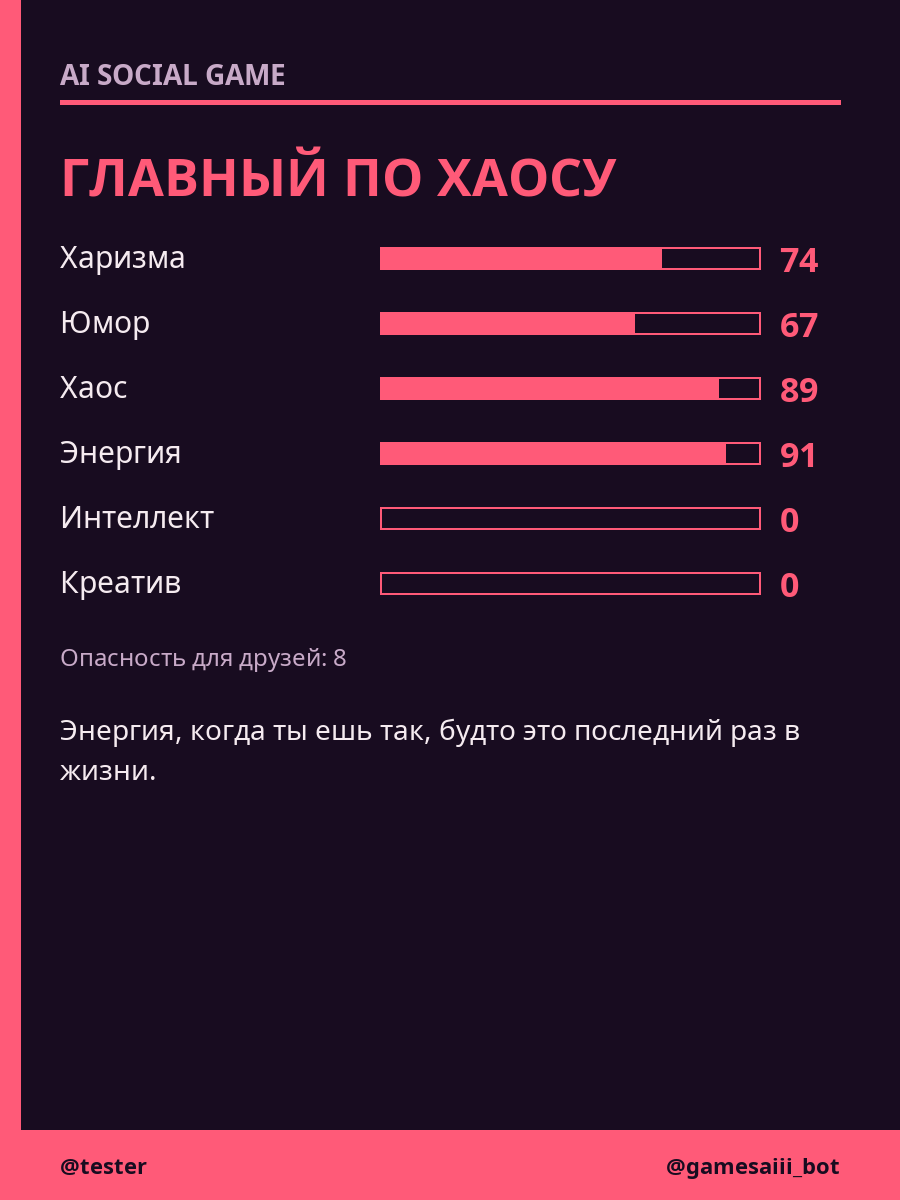
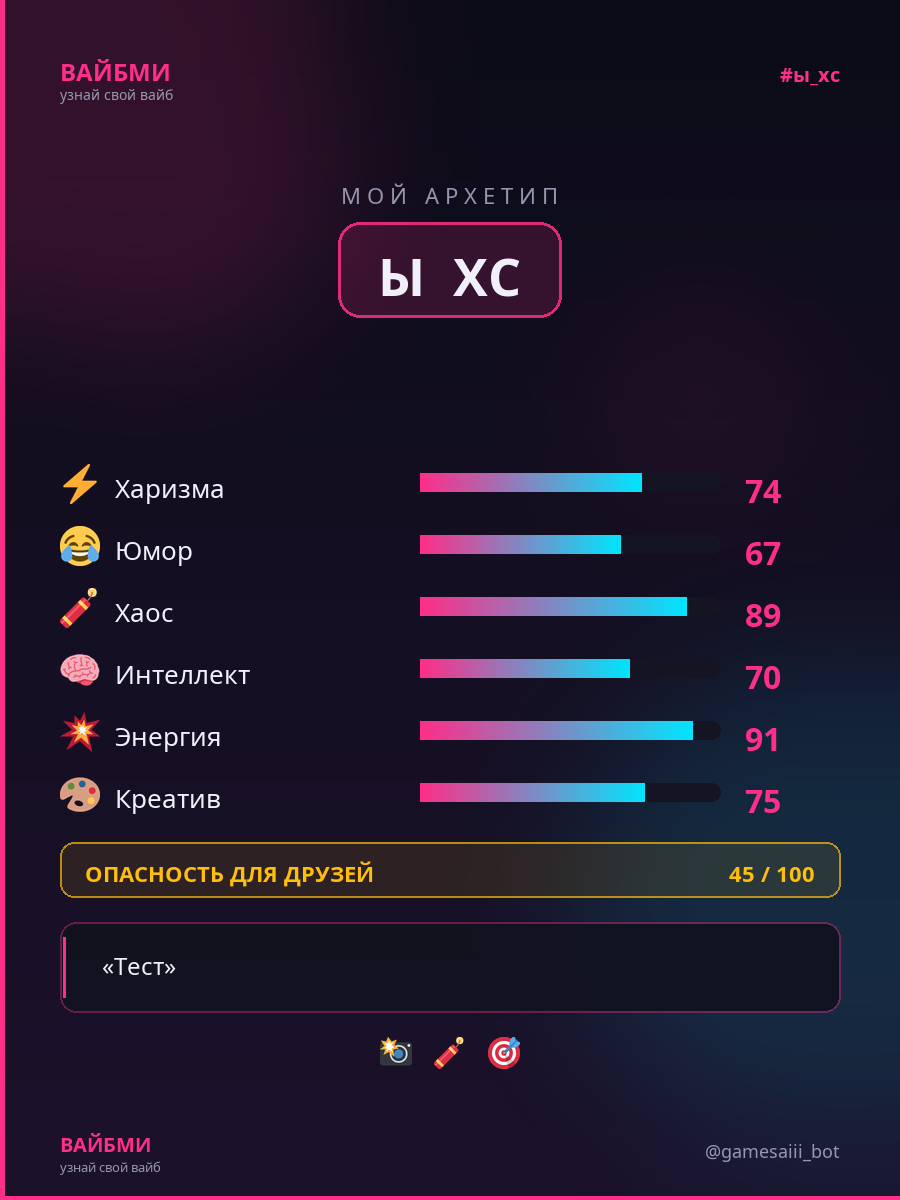
cards

diff --git a/services/cards/icons_data.py b/services/cards/icons_data.py
@@ -6,81 +6,343 @@ PNG-иконки для карточек, вшитые в base64.
 """
 
 import base64
+from typing import Optional
 
 STAT_CHARISMA_PNG = (
-    "NDA0OiBOb3QgRm91bmQ="
[8 lines of base64/hex data omitted]
 )
 
 STAT_HUMOR_PNG = (
-    "NDA0OiBOb3QgRm91bmQ="
[19 lines of base64/hex data omitted]
+    "AAAAAElFTkSuQmCC"
 )
 
 STAT_CHAOS_PNG = (
-    "NDA0OiBOb3QgRm91bmQ="
[14 lines of base64/hex data omitted]
+    "RK5CYII="
 )
 
 STAT_INTELLECT_PNG = (
-    "NDA0OiBOb3QgRm91bmQ="
[22 lines of base64/hex data omitted]
+    "DAAAAABJRU5ErkJggg=="
 )
 
 STAT_ENERGY_PNG = (
-    "NDA0OiBOb3QgRm91bmQ="
[18 lines of base64/hex data omitted]
+    "rkJggg=="
 )
 
 STAT_CREATIVITY_PNG = (
-    "NDA0OiBOb3QgRm91bmQ="
[14 lines of base64/hex data omitted]
+    "AAAASUVORK5CYII="
 )
 
 ACH_FIRST_PHOTO_PNG = (
-    "NDA0OiBOb3QgRm91bmQ="
[18 lines of base64/hex data omitted]
+    "4Ycf/gJMNUwl8U7IIwAAAABJRU5ErkJggg=="
 )
 
 ACH_FIRST_SHARE_PNG = (
-    "NDA0OiBOb3QgRm91bmQ="
[8 lines of base64/hex data omitted]
 )
 
 ACH_FRIEND_JOINED_PNG = (
-    "NDA0OiBOb3QgRm91bmQ="
[12 lines of base64/hex data omitted]
+    "AAAAAElFTkSuQmCC"
 )
 
 ACH_FIRST_TEST_PNG = (
-    "NDA0OiBOb3QgRm91bmQ="
[15 lines of base64/hex data omitted]
 )
 
 ACH_FIVE_TESTS_PNG = (
-    "NDA0OiBOb3QgRm91bmQ="
[16 lines of base64/hex data omitted]
+    "VoK/s2Z8jJHoK4UAAAAASUVORK5CYII="
 )
 
 ACH_CHAOS_90_PNG = (
-    "NDA0OiBOb3QgRm91bmQ="
[14 lines of base64/hex data omitted]
+    "RK5CYII="
 )
 
 ACH_CHARISMA_90_PNG = (
-    "NDA0OiBOb3QgRm91bmQ="
[13 lines of base64/hex data omitted]
+    "AAAASUVORK5CYII="
 )
 
 ACH_FIVE_ANALYSES_PNG = (
-    "NDA0OiBOb3QgRm91bmQ="
[16 lines of base64/hex data omitted]
+    "shNBaAAAAABJRU5ErkJggg=="
 )
 
 ACH_FIRST_MATCH_PNG = (
-    "NDA0OiBOb3QgRm91bmQ="
[21 lines of base64/hex data omitted]
 )
 
 ACH_TEN_MESSAGES_PNG = (
-    "NDA0OiBOb3QgRm91bmQ="
[8 lines of base64/hex data omitted]
+    "6a6NhWYYYpVkWAsG2T2kVvDffAJWZdMVFDffNgAAAABJRU5ErkJggg=="
 )
 
 ACH_PRO_FIRST_PNG = (
-    "NDA0OiBOb3QgRm91bmQ="
[14 lines of base64/hex data omitted]
+    "0DRztkL6AAAAAElFTkSuQmCC"
 )
 
 ACH_DEFAULT_PNG = (
-    "NDA0OiBOb3QgRm91bmQ="
[15 lines of base64/hex data omitted]
+    "FGXp/G1B99ji6VHvE1s865NeIXwDBvTA37rZqRcAAAAASUVORK5CYII="
 )
 
 
-def get_icon_bytes(name: str) -> bytes | None:
+def get_icon_bytes(name: str) -> Optional[bytes]:
     """Возвращает байты иконки по ключу."""
     value = globals().get(name)
     if value is None:

diff --git a/services/cards/generator.py b/services/cards/generator.py
@@ -1,10 +1,11 @@
 """
-Генератор карточек «Вайбми» с PNG-иконками.
+Генератор карточек «Вайбми».
+Работает на Python 3.7+. Иконки вшиты в base64.
 """
 import io
 import logging
 from io import BytesIO
-from typing import Any, Dict
+from typing import Any, Dict, Optional
 
 from PIL import Image, ImageDraw, ImageFilter, ImageFont
 
@@ -21,6 +22,9 @@ CARD_W = 900
 CARD_H = 1200
 
 
+# ============================================================
+# Шрифты
+# ============================================================
 _FONT_REGULAR_BYTES = get_regular_font_bytes()
 _FONT_BOLD_BYTES = get_bold_font_bytes()
 
@@ -34,6 +38,9 @@ def _load_font(size: int, bold: bool = False):
         return ImageFont.load_default()
 
 
+# ============================================================
+# Утилиты рисования
+# ============================================================
 def _draw_gradient(img: Image.Image, top_color, bottom_color):
     draw = ImageDraw.Draw(img)
     for y in range(CARD_H):
@@ -84,8 +91,8 @@ def _text_width(draw, text, font):
 # ============================================================
 def generate_card(
     profile: Dict[str, Any],
-    username: str | None = None,
-    bot_username: str | None = None,
+    username: Optional[str] = None,
+    bot_username: Optional[str] = None,
 ) -> bytes:
     archetype = str(profile.get("archetype", "ТВОЙ АРХЕТИП")).upper()
     theme = theme_for(archetype)
@@ -223,7 +230,7 @@ def generate_card(
             fill=(20, 20, 34, 255),
         )
 
-        # Заливка
+        # Заливка с градиентом
         fill_w = int(bar_w * value / 100)
         if fill_w > 0:
             for x in range(fill_w):
@@ -333,10 +340,6 @@ def generate_card(
     if achievements:
         achi_y = qy2 + 25
 
-        # Иконки — по коду достижения
-        font_achi_label = _load_font(18, bold=True)
-
-        # Считаем общую ширину для центрирования
         icons_with_size = 32
         gap = 22
         total_w = 0
@@ -349,7 +352,7 @@ def generate_card(
             total_w += icons_with_size + gap
 
         if pairs:
-            total_w -= gap  # убираем последний gap
+            total_w -= gap
             start_x = (CARD_W - total_w) // 2
 
             for code, icon in pairs:

diff --git a/services/cards/icons.py b/services/cards/icons.py
@@ -2,6 +2,8 @@
 Загрузка PNG-иконок для карточек.
 Иконки вшиты в base64 (services/cards/icons_data.py) —
 не зависят от файловой системы, работают на любом хостинге.
+
+Совместимо с Python 3.9+.
 """
 import io
 from typing import Optional
@@ -15,7 +17,7 @@ logger = get_logger(__name__)
 
 
 # Кэш: (key, size) → PIL.Image
-_cache: dict[tuple[str, int], Image.Image] = {}
+_cache: dict = {}
 
 
 # ============================================================
@@ -91,7 +93,7 @@ def achievement_icon(code: str, size: int = 32) -> Optional[Image.Image]:
 
 
 # ============================================================
-# Диагностика
+# Диагностика при импорте
 # ============================================================
 logger.info("[ICONS] icons.py loaded (base64 mode)")
 
@@ -112,7 +114,7 @@ def _diagnose() -> None:
         if missing:
             logger.warning(f"[ICONS] Missing icons: {missing}")
         else:
-            logger.info("[ICONS] All icons loaded ✓")
+            logger.info("[ICONS] All icons loaded OK")
     except Exception:
         logger.exception("[ICONS] Diagnosis failed")
 

diff --git a/tools/build_embedded_icons.py b/tools/build_embedded_icons.py
@@ -78,6 +78,7 @@ def main() -> int:
         '"""',
         "",
         "import base64",
+        "from typing import Optional",
         "",
     ]
 
@@ -88,7 +89,7 @@ def main() -> int:
         body_lines.append("")
 
     body_lines.append("")
-    body_lines.append("def get_icon_bytes(name: str) -> bytes | None:")
+    body_lines.append("def get_icon_bytes(name: str) -> Optional[bytes]:")
     body_lines.append('    """Возвращает байты иконки по ключу."""')
     body_lines.append("    value = globals().get(name)")
     body_lines.append("    if value is None:")
